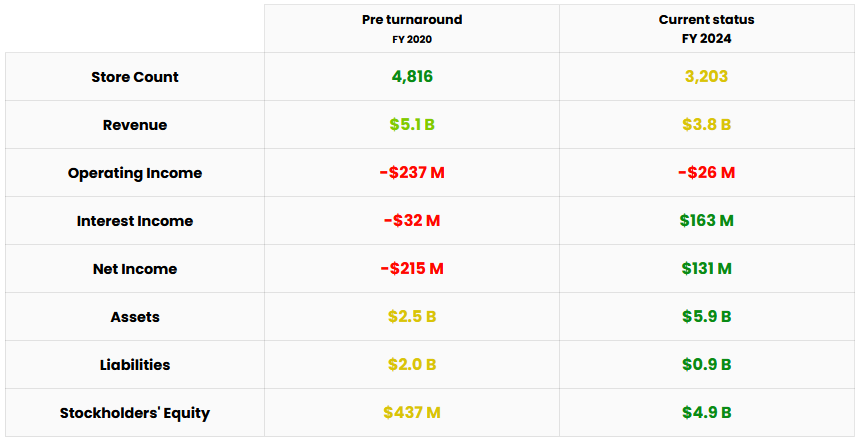
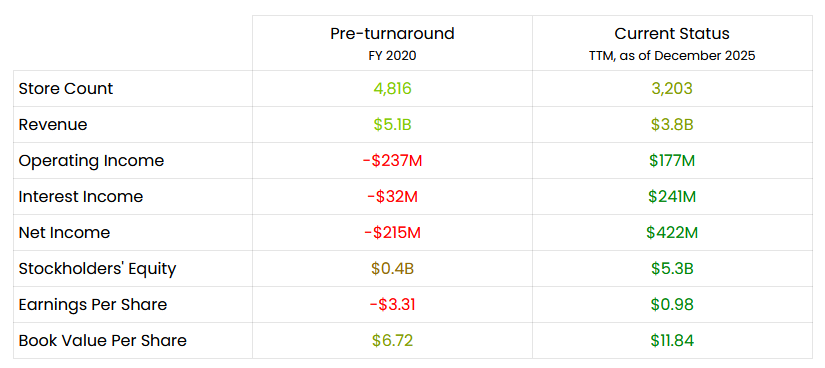
correct file path

diff --git a/src/app/info-pages/turnaround/turnaround.component.html b/src/app/info-pages/turnaround/turnaround.component.html
@@ -46,32 +46,6 @@
 
             <app-turnaround-table></app-turnaround-table>
 
-            <!-- <div class="quote-section-container">
-                <div class="quote-section">
-                    <p>
-                        Generally the business is much more efficient. It's gonna be a smaller — less stores — but more
-                        profitable company.
-                    </p>
-                    <p>
-                        Most importantly, we're generating profits every single quarter now.
-                    </p>
-                    <p>
-                        Typically in the
-                        past GameStop has only made money in Q3 and Q4, and actually, when I joined the board and before
-                        I joined the board, GameStop was losing money every single year.
-                    </p>
-                    <p>
-                        It's hard to appreciate what a
-                        piece of crap the business was when I joined the board and what was going on in the boardroom
-                        and management. But, we're making progress.
-                    </p>
-                    <div class="quote-attribution">GameStop CEO Ryan Cohen
-                        <div style="margin-left: 10px;"><a
-                                href="https://www.reddit.com/r/Superstonk/comments/1m0pqqq/ryan_cohen_fox_business_interview_with_charles/"
-                                target="_blank" class="external-link" rel="nofollow">July 15, 2025</a></div>
-                    </div>
-                </div>
-            </div> -->
         </div>
 
         <div class="page-section">
@@ -230,6 +204,33 @@
                 company turnaround. As GameStop closes stores, <a [routerLink]="'/earnings'">revenue</a> has also been
                 in decline, but is showing signs of stabilizing.
             </p>
+
+            <div class="quote-section-container">
+                <div class="quote-section">
+                    <p>
+                        Generally the business is much more efficient. It's gonna be a smaller — less stores — but more
+                        profitable company.
+                    </p>
+                    <p>
+                        Most importantly, we're generating profits every single quarter now.
+                    </p>
+                    <p>
+                        Typically in the
+                        past GameStop has only made money in Q3 and Q4, and actually, when I joined the board and before
+                        I joined the board, GameStop was losing money every single year.
+                    </p>
+                    <p>
+                        It's hard to appreciate what a
+                        piece of crap the business was when I joined the board and what was going on in the boardroom
+                        and management. But, we're making progress.
+                    </p>
+                    <div class="quote-attribution">GameStop CEO Ryan Cohen
+                        <div style="margin-left: 10px;"><a
+                                href="https://www.reddit.com/r/Superstonk/comments/1m0pqqq/ryan_cohen_fox_business_interview_with_charles/"
+                                target="_blank" class="external-link" rel="nofollow">July 15, 2025</a></div>
+                    </div>
+                </div>
+            </div>
 
             <p>GameStop has generated $97M in operating profits so far in fiscal year 2025, and is well on track for
                 full-year operating profits for the first time in 8 years. </p>
